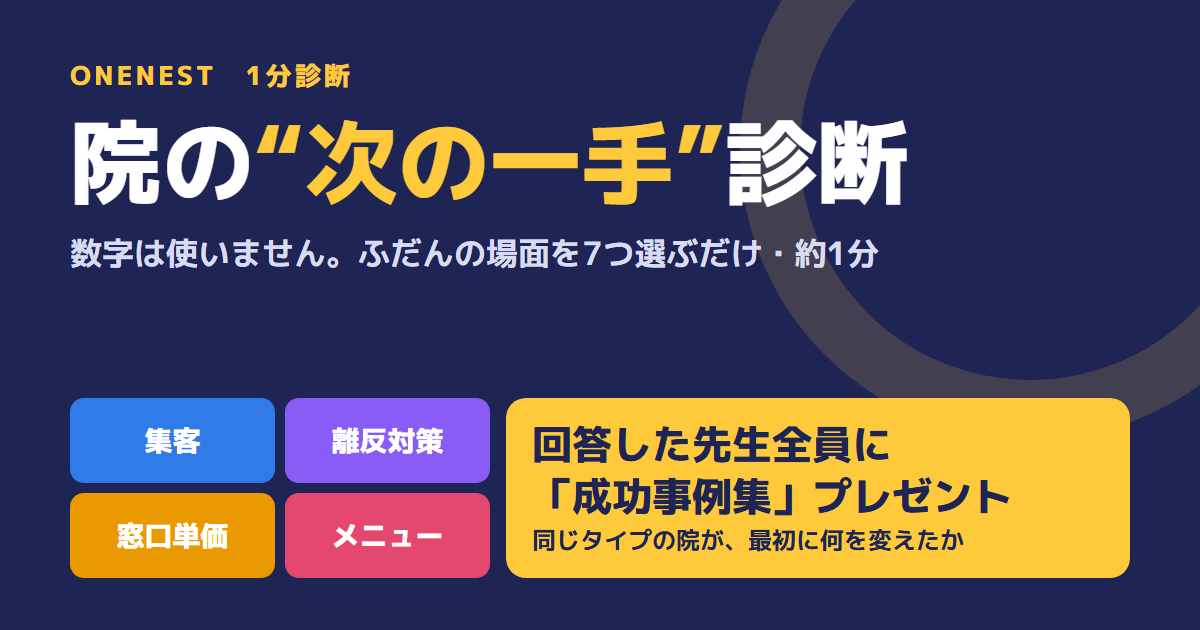
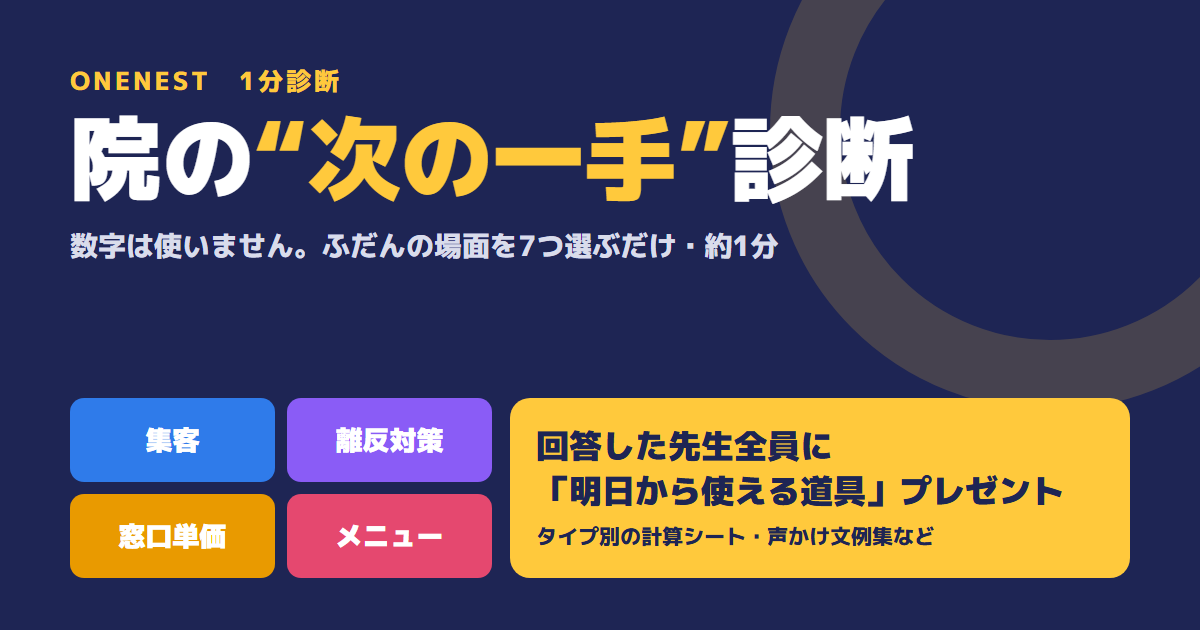
Add files via upload

diff --git a/next/index.html b/next/index.html
@@ -4,9 +4,9 @@
 <meta charset="utf-8">
 <meta name="viewport" content="width=device-width,initial-scale=1,viewport-fit=cover">
 <title>次の一手診断｜整骨院・接骨院・鍼灸院</title>
-<meta name="description" content="数字は使いません。ふだんの院の場面を7つ選ぶだけで、次に力を入れる分野が4タイプで分かる1分診断。回答した先生全員に成功事例集をプレゼント。">
+<meta name="description" content="数字は使いません。ふだんの院の場面を7つ選ぶだけで、次に力を入れる分野が4タイプで分かる1分診断。回答した先生全員に、タイプ別の「明日から使える道具」をプレゼント。">
 <meta property="og:type" content="website">
-<meta property="og:title" content="院の“次の一手”診断｜回答した先生全員に成功事例集">
+<meta property="og:title" content="院の“次の一手”診断｜回答した先生全員にタイプ別の特典">
 <meta property="og:description" content="数字は使いません。ふだんの場面を7つ選ぶだけ・約1分。次に力を入れる分野が4タイプで分かります。">
 <!-- 公開する場所を変えたら、og:image のURLも置き場所に合わせて書き換える -->
 <meta property="og:image" content="https://takumitakahagi.github.io/shindan/next/ogp.png">
@@ -130,10 +130,10 @@ input:focus{border-color:var(--navy-2)}
         <div class="types" aria-hidden="true">
           <span style="background:var(--c1)">集客</span><span style="background:var(--c2)">離反対策</span><span style="background:var(--c3)">窓口単価</span><span style="background:var(--c4)">メニュー</span>
         </div>
-        <div class="gift"><div class="ic">全員<br>特典</div><div><b>同じタイプの院の「成功事例集」</b><span>答えた先生全員に、LINEでお届けします</span></div></div>
+        <div class="gift"><div class="ic">全員<br>特典</div><div><b>タイプ別の「明日から使える道具」</b><span>計算シートや文例集を、答えた先生全員にLINEでお届けします</span></div></div>
         <ul class="points"><li>選ぶだけの7問・約1分</li><li>結果はこの画面ですぐ分かります</li><li>前回の経営診断とは別の診断です</li></ul>
         <form id="entry" novalidate>
-          <p class="small muted" style="margin-top:6px">はじめに、結果と成功事例集をお届けするため、3点だけご入力ください（約30秒）。</p>
+          <p class="small muted" style="margin-top:6px">はじめに、結果と特典をお届けするため、3点だけご入力ください（約30秒）。</p>
           <label class="f" for="in-name">院名</label>
           <input type="text" id="in-name" autocomplete="organization" placeholder="例）○○整骨院">
           <label class="f" for="dr-name">先生のお名前</label>
@@ -173,7 +173,7 @@ input:focus{border-color:var(--navy-2)}
           <h3>LINEで受け取ると届くもの</h3>
           <ol>
             <li>このタイプの院が最初に見直したことを、明日から3日間、1日1通</li>
-            <li>3日目に、同じタイプの院の「成功事例集」</li>
+            <li>3日目に、タイプ別の「明日から使える道具」（計算シート・文例集など）</li>
           </ol>
         </div>
         <a class="btn btn-line" id="r-line" href="#" target="_blank" rel="noopener">LINEで結果と特典を受け取る</a>
